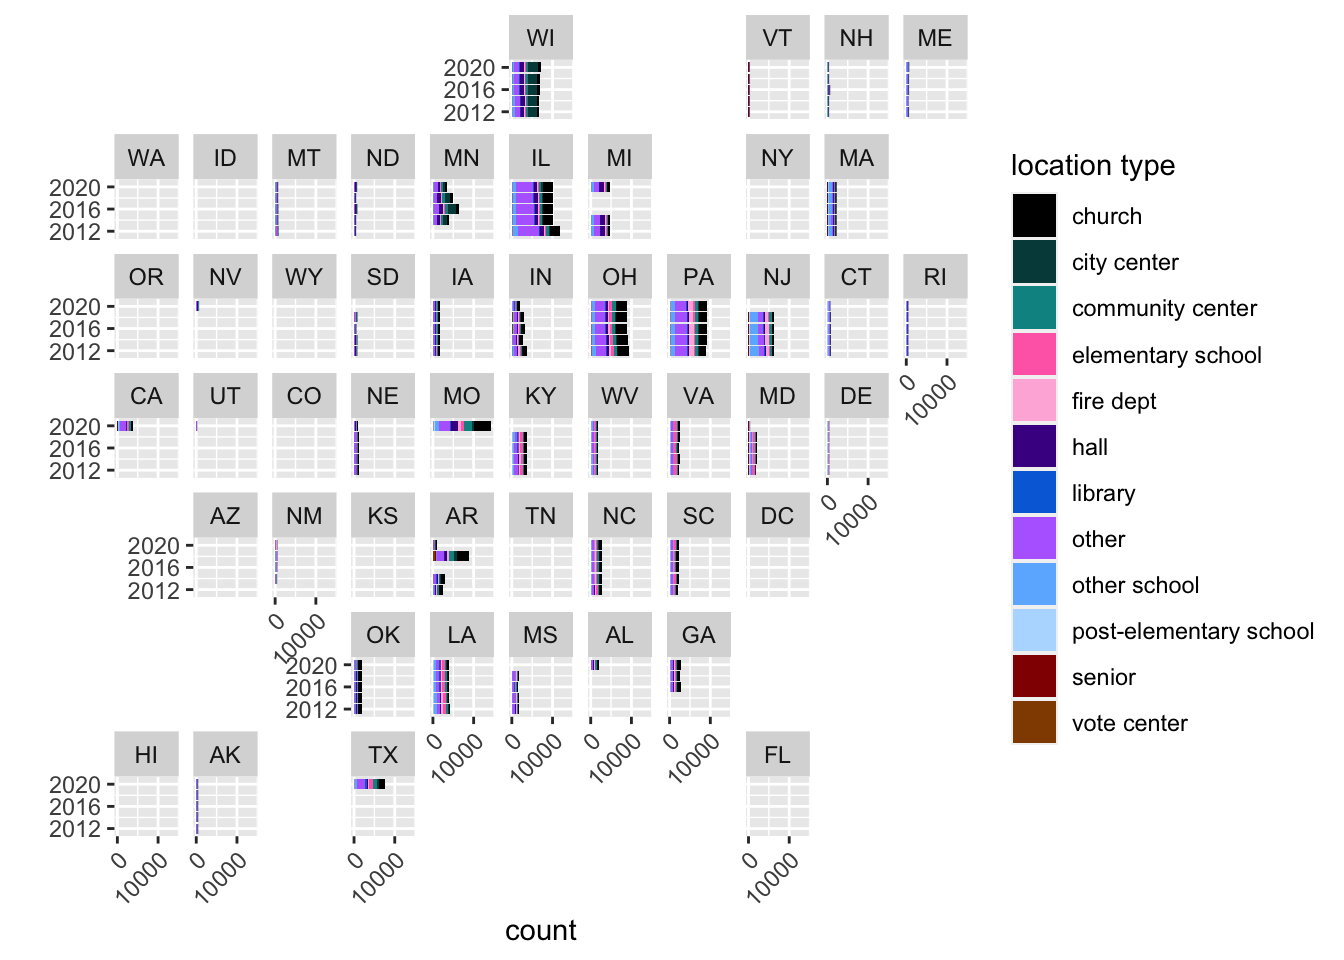
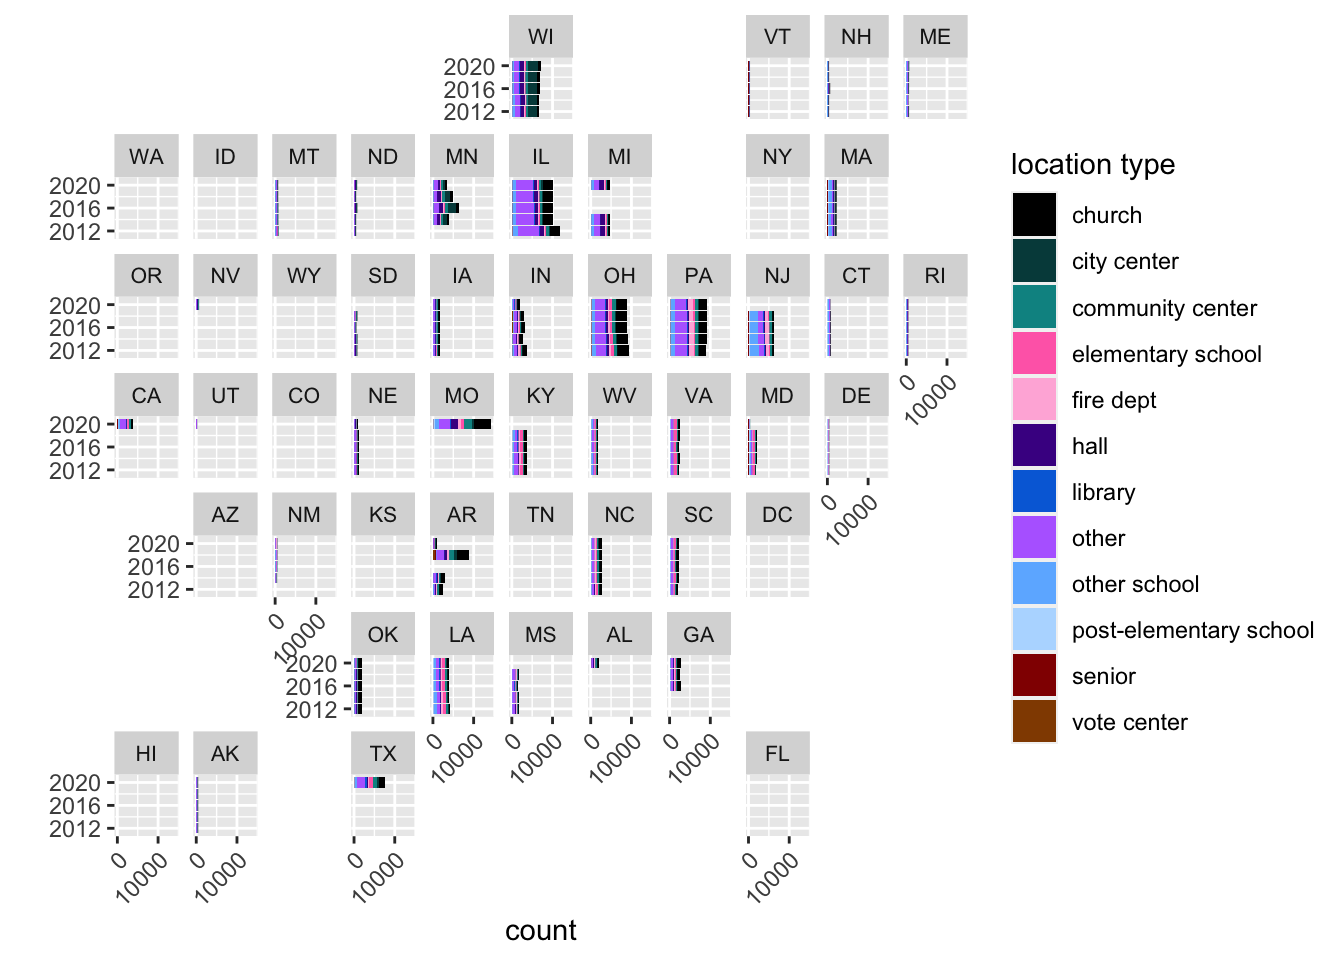
added alt text to polling

diff --git a/2024-01-16/polling.html b/2024-01-16/polling.html
@@ -184,14 +184,18 @@ pre > code.sourceCode > span > a:first-child::before { text-decoration: underlin
 <span id="cb4-6"><a href="#cb4-6" aria-hidden="true" tabindex="-1"></a>polling <span class="sc">|&gt;</span></span>
 <span id="cb4-7"><a href="#cb4-7" aria-hidden="true" tabindex="-1"></a>  <span class="fu">ggplot</span>(<span class="fu">aes</span>(<span class="at">fill =</span> location_type, <span class="at">x =</span> year)) <span class="sc">+</span> </span>
 <span id="cb4-8"><a href="#cb4-8" aria-hidden="true" tabindex="-1"></a>  <span class="fu">geom_bar</span>() <span class="sc">+</span> </span>
-<span id="cb4-9"><a href="#cb4-9" aria-hidden="true" tabindex="-1"></a>  <span class="fu">scale_x_continuous</span>(<span class="at">breaks=</span><span class="fu">seq</span>(<span class="dv">2012</span>,<span class="dv">2020</span>,<span class="dv">4</span>)) <span class="sc">+</span> </span>
+<span id="cb4-9"><a href="#cb4-9" aria-hidden="true" tabindex="-1"></a>  <span class="fu">scale_x_continuous</span>(<span class="at">breaks=</span><span class="fu">seq</span>(<span class="dv">2012</span>,<span class="dv">2020</span>,<span class="dv">2</span>)) <span class="sc">+</span> </span>
 <span id="cb4-10"><a href="#cb4-10" aria-hidden="true" tabindex="-1"></a>  <span class="fu">theme</span>(<span class="at">axis.text.x =</span> <span class="fu">element_text</span>(<span class="at">angle =</span> <span class="dv">45</span>, <span class="at">vjust =</span> <span class="dv">1</span>, <span class="at">hjust=</span><span class="dv">1</span>)) <span class="sc">+</span></span>
 <span id="cb4-11"><a href="#cb4-11" aria-hidden="true" tabindex="-1"></a>  <span class="fu">labs</span>(<span class="at">x =</span> <span class="st">""</span>, <span class="at">fill =</span> <span class="st">"location type"</span>)  <span class="sc">+</span> </span>
-<span id="cb4-12"><a href="#cb4-12" aria-hidden="true" tabindex="-1"></a>  <span class="fu">scale_x_continuous</span>(<span class="at">breaks=</span><span class="fu">seq</span>(<span class="dv">2012</span>,<span class="dv">2020</span>,<span class="dv">2</span>)) <span class="sc">+</span> </span>
-<span id="cb4-13"><a href="#cb4-13" aria-hidden="true" tabindex="-1"></a>  <span class="fu">scale_fill_manual</span>(<span class="at">values =</span> pal) <span class="sc">+</span></span>
-<span id="cb4-14"><a href="#cb4-14" aria-hidden="true" tabindex="-1"></a>  <span class="fu">coord_flip</span>() </span></code><button title="Copy to Clipboard" class="code-copy-button"><i class="bi"></i></button></pre></div>
+<span id="cb4-12"><a href="#cb4-12" aria-hidden="true" tabindex="-1"></a>  <span class="fu">scale_fill_manual</span>(<span class="at">values =</span> pal) <span class="sc">+</span></span>
+<span id="cb4-13"><a href="#cb4-13" aria-hidden="true" tabindex="-1"></a>  <span class="fu">coord_flip</span>() </span></code><button title="Copy to Clipboard" class="code-copy-button"><i class="bi"></i></button></pre></div>
 <div class="cell-output-display">
-<p><img src="polling_files/figure-html/unnamed-chunk-4-1.png" class="img-fluid" width="672"></p>
+<div class="quarto-figure quarto-figure-center">
+<figure class="figure">
+<p><img src="polling_files/figure-html/unnamed-chunk-4-1.png" class="img-fluid figure-img" alt="Bar plot of number of polling places in each year, broken down by the type of location. Years range from 2012 to 2020, and there are more polling places over time.  The common location types for polling places are churches, community centers, schools, fire departments, and halls." width="672"></p>
+<figcaption class="figure-caption">Bar plot of number of polling places in each year, broken down by the type of location.</figcaption>
+</figure>
+</div>
 </div>
 </div>
 <div class="cell">
@@ -200,22 +204,27 @@ pre > code.sourceCode > span > a:first-child::before { text-decoration: underlin
 <span id="cb5-3"><a href="#cb5-3" aria-hidden="true" tabindex="-1"></a>polling <span class="sc">|&gt;</span></span>
 <span id="cb5-4"><a href="#cb5-4" aria-hidden="true" tabindex="-1"></a>  <span class="fu">ggplot</span>(<span class="fu">aes</span>(<span class="at">fill =</span> location_type, <span class="at">x =</span> year)) <span class="sc">+</span> </span>
 <span id="cb5-5"><a href="#cb5-5" aria-hidden="true" tabindex="-1"></a>  <span class="fu">geom_bar</span>() <span class="sc">+</span> </span>
-<span id="cb5-6"><a href="#cb5-6" aria-hidden="true" tabindex="-1"></a>  <span class="fu">scale_x_continuous</span>(<span class="at">breaks=</span><span class="fu">seq</span>(<span class="dv">2012</span>,<span class="dv">2020</span>,<span class="dv">4</span>)) <span class="sc">+</span> </span>
-<span id="cb5-7"><a href="#cb5-7" aria-hidden="true" tabindex="-1"></a>  <span class="fu">theme</span>(<span class="at">axis.text.x =</span> <span class="fu">element_text</span>(<span class="at">angle =</span> <span class="dv">45</span>, <span class="at">vjust =</span> <span class="dv">1</span>, <span class="at">hjust=</span><span class="dv">1</span>)) <span class="sc">+</span></span>
-<span id="cb5-8"><a href="#cb5-8" aria-hidden="true" tabindex="-1"></a>  <span class="fu">labs</span>(<span class="at">x =</span> <span class="st">""</span>, <span class="at">fill =</span> <span class="st">"location type"</span>)  <span class="sc">+</span> </span>
-<span id="cb5-9"><a href="#cb5-9" aria-hidden="true" tabindex="-1"></a>  <span class="fu">scale_x_continuous</span>(<span class="at">breaks=</span><span class="fu">seq</span>(<span class="dv">2012</span>,<span class="dv">2020</span>,<span class="dv">4</span>)) <span class="sc">+</span> </span>
-<span id="cb5-10"><a href="#cb5-10" aria-hidden="true" tabindex="-1"></a>  <span class="fu">scale_y_continuous</span>(<span class="at">breaks=</span><span class="fu">seq</span>(<span class="dv">0</span>,<span class="dv">15000</span>,<span class="dv">10000</span>)) <span class="sc">+</span> </span>
-<span id="cb5-11"><a href="#cb5-11" aria-hidden="true" tabindex="-1"></a>  <span class="fu">scale_fill_manual</span>(<span class="at">values =</span> pal) <span class="sc">+</span></span>
-<span id="cb5-12"><a href="#cb5-12" aria-hidden="true" tabindex="-1"></a>  <span class="fu">coord_flip</span>() <span class="sc">+</span> </span>
-<span id="cb5-13"><a href="#cb5-13" aria-hidden="true" tabindex="-1"></a>  <span class="fu">facet_geo</span>(<span class="sc">~</span>state)</span></code><button title="Copy to Clipboard" class="code-copy-button"><i class="bi"></i></button></pre></div>
+<span id="cb5-6"><a href="#cb5-6" aria-hidden="true" tabindex="-1"></a>  <span class="fu">theme</span>(<span class="at">axis.text.x =</span> <span class="fu">element_text</span>(<span class="at">angle =</span> <span class="dv">45</span>, <span class="at">vjust =</span> <span class="dv">1</span>, <span class="at">hjust=</span><span class="dv">1</span>)) <span class="sc">+</span></span>
+<span id="cb5-7"><a href="#cb5-7" aria-hidden="true" tabindex="-1"></a>  <span class="fu">labs</span>(<span class="at">x =</span> <span class="st">""</span>, <span class="at">fill =</span> <span class="st">"location type"</span>)  <span class="sc">+</span> </span>
+<span id="cb5-8"><a href="#cb5-8" aria-hidden="true" tabindex="-1"></a>  <span class="fu">scale_x_continuous</span>(<span class="at">breaks=</span><span class="fu">seq</span>(<span class="dv">2012</span>,<span class="dv">2020</span>,<span class="dv">4</span>)) <span class="sc">+</span> </span>
+<span id="cb5-9"><a href="#cb5-9" aria-hidden="true" tabindex="-1"></a>  <span class="fu">scale_y_continuous</span>(<span class="at">breaks=</span><span class="fu">seq</span>(<span class="dv">0</span>,<span class="dv">15000</span>,<span class="dv">10000</span>)) <span class="sc">+</span> </span>
+<span id="cb5-10"><a href="#cb5-10" aria-hidden="true" tabindex="-1"></a>  <span class="fu">scale_fill_manual</span>(<span class="at">values =</span> pal) <span class="sc">+</span></span>
+<span id="cb5-11"><a href="#cb5-11" aria-hidden="true" tabindex="-1"></a>  <span class="fu">coord_flip</span>() <span class="sc">+</span> </span>
+<span id="cb5-12"><a href="#cb5-12" aria-hidden="true" tabindex="-1"></a>  <span class="fu">facet_geo</span>(<span class="sc">~</span>state) <span class="sc">+</span> </span>
+<span id="cb5-13"><a href="#cb5-13" aria-hidden="true" tabindex="-1"></a>  <span class="fu">theme</span>(<span class="at">strip.text=</span><span class="fu">element_text</span>(<span class="at">size=</span><span class="dv">8</span>))</span></code><button title="Copy to Clipboard" class="code-copy-button"><i class="bi"></i></button></pre></div>
 <div class="cell-output-display">
-<p><img src="polling_files/figure-html/unnamed-chunk-5-1.png" class="img-fluid" width="672"></p>
+<div class="quarto-figure quarto-figure-center">
+<figure class="figure">
+<p><img src="polling_files/figure-html/unnamed-chunk-5-1.png" class="img-fluid figure-img" alt="Bar plot of number of polling places in each year, broken down by the type of location. Years range from 2012 to 2020, and there are more polling places over time.  The common location types for polling places are churches, community centers, schools, fire departments, and halls. Faceting by state does not provide much information, as many states do not have information provided and there are too many location types to see clearly when broken down by state." width="672"></p>
+<figcaption class="figure-caption">Bar plot of number of polling places in each year, broken down by the type of location, faceted by state.</figcaption>
+</figure>
+</div>
 </div>
 </div>
 <div class="cell">
 <div class="sourceCode cell-code" id="cb6"><pre class="sourceCode r code-with-copy"><code class="sourceCode r"><span id="cb6-1"><a href="#cb6-1" aria-hidden="true" tabindex="-1"></a><span class="fu">praise</span>()</span></code><button title="Copy to Clipboard" class="code-copy-button"><i class="bi"></i></button></pre></div>
 <div class="cell-output cell-output-stdout">
-<pre><code>[1] "You are magnificent!"</code></pre>
+<pre><code>[1] "You are classy!"</code></pre>
 </div>
 </div>
 </section>
